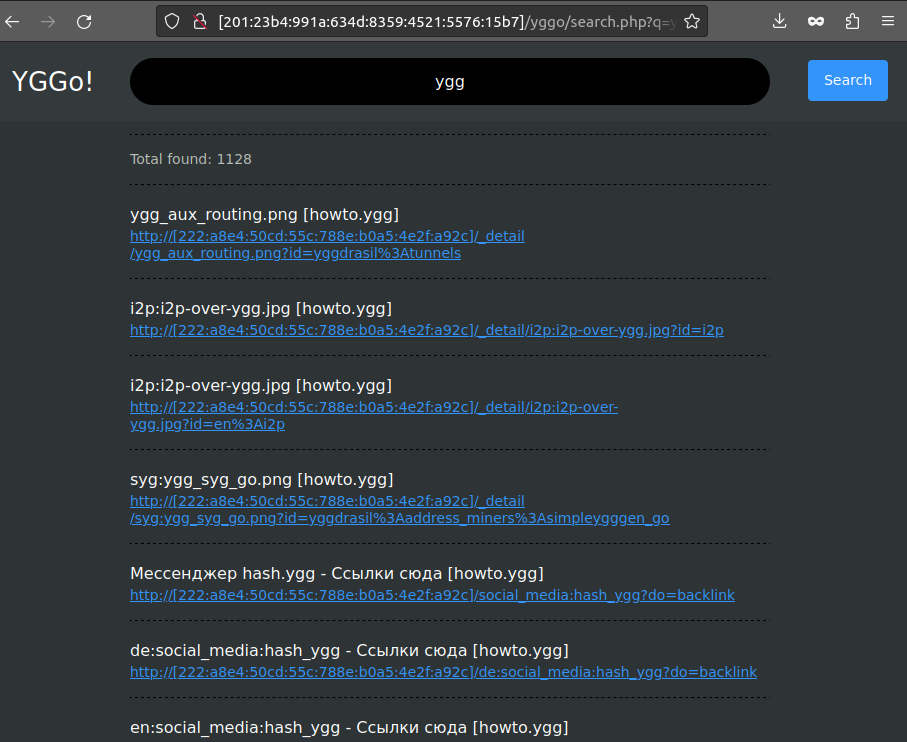
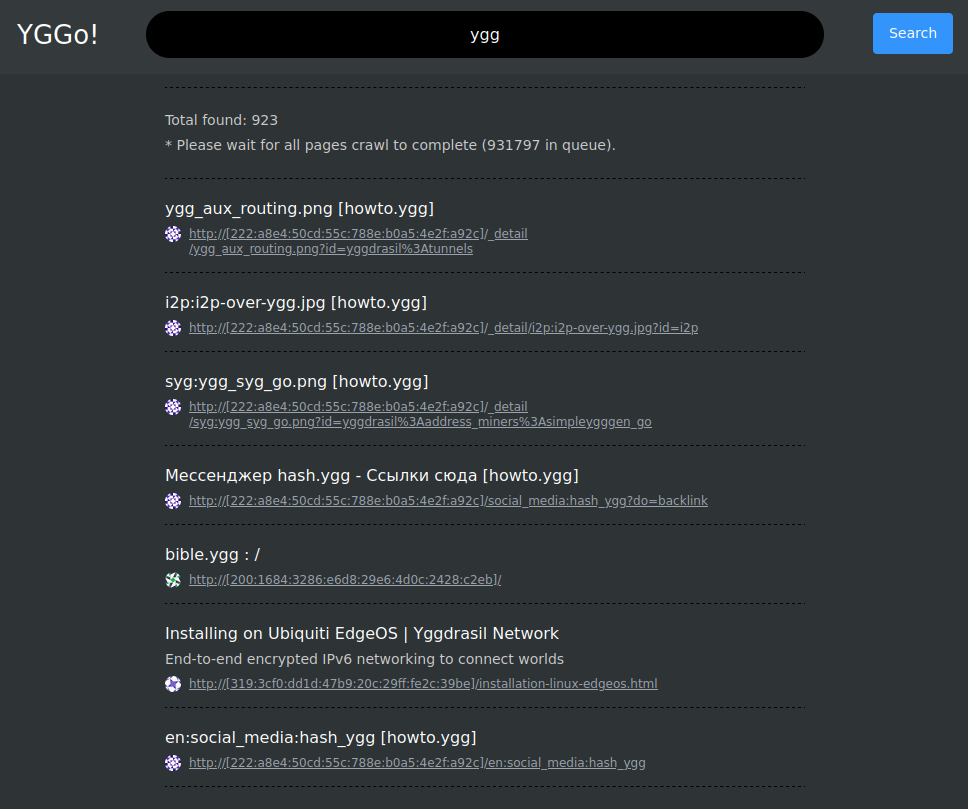
update search page style

Changed region(s): [[0.1235, 0.248, 0.8335, 1.0], [0.0, 0.0, 1.0, 0.217]]

diff --git a/public/search.php b/public/search.php
@@ -75,13 +75,20 @@ if (!empty($q)) {
       }
 
       h1 {
+        position: fixed;
+        top: 8px;
+        left: 24px;
+      }
+
+      h1 > a,
+      h1 > a:visited,
+      h1 > a:active,
+      h1 > a:hover {
         color: #fff;
         font-weight: normal;
         font-size: 26px;
         margin: 16px 0;
-        position: fixed;
-        top: 8px;
-        left: 24px;
+        text-decoration: none;
       }
 
       h2 {
@@ -94,7 +101,7 @@ if (!empty($q)) {
 
       form {
         display: block;
-        max-width: 640px;
+        max-width: 678px;
         margin: 0 auto;
         text-align: center;
       }
@@ -140,9 +147,10 @@ if (!empty($q)) {
       }
 
       a, a:visited, a:active {
-        color: #3394fb;
+        color: #9ba2ac;
         display: block;
         font-size: 12px;
+        margin-top: 8px;
       }
 
       a:hover {
@@ -174,7 +182,7 @@ if (!empty($q)) {
   <body>
     <header>
       <form name="search" method="GET" action="<?php echo WEBSITE_DOMAIN; ?>/search.php">
-        <a href="<?php echo WEBSITE_DOMAIN; ?>"><h1><?php echo _('YGGo!') ?></h1></a>
+        <h1><a href="<?php echo WEBSITE_DOMAIN; ?>"><?php echo _('YGGo!') ?></a></h1>
         <input type="text" name="q" placeholder="<?php echo $placeholder ?>" value="<?php echo htmlentities($q) ?>" />
         <button type="submit"><?php echo _('Search'); ?></button>
       </form>
